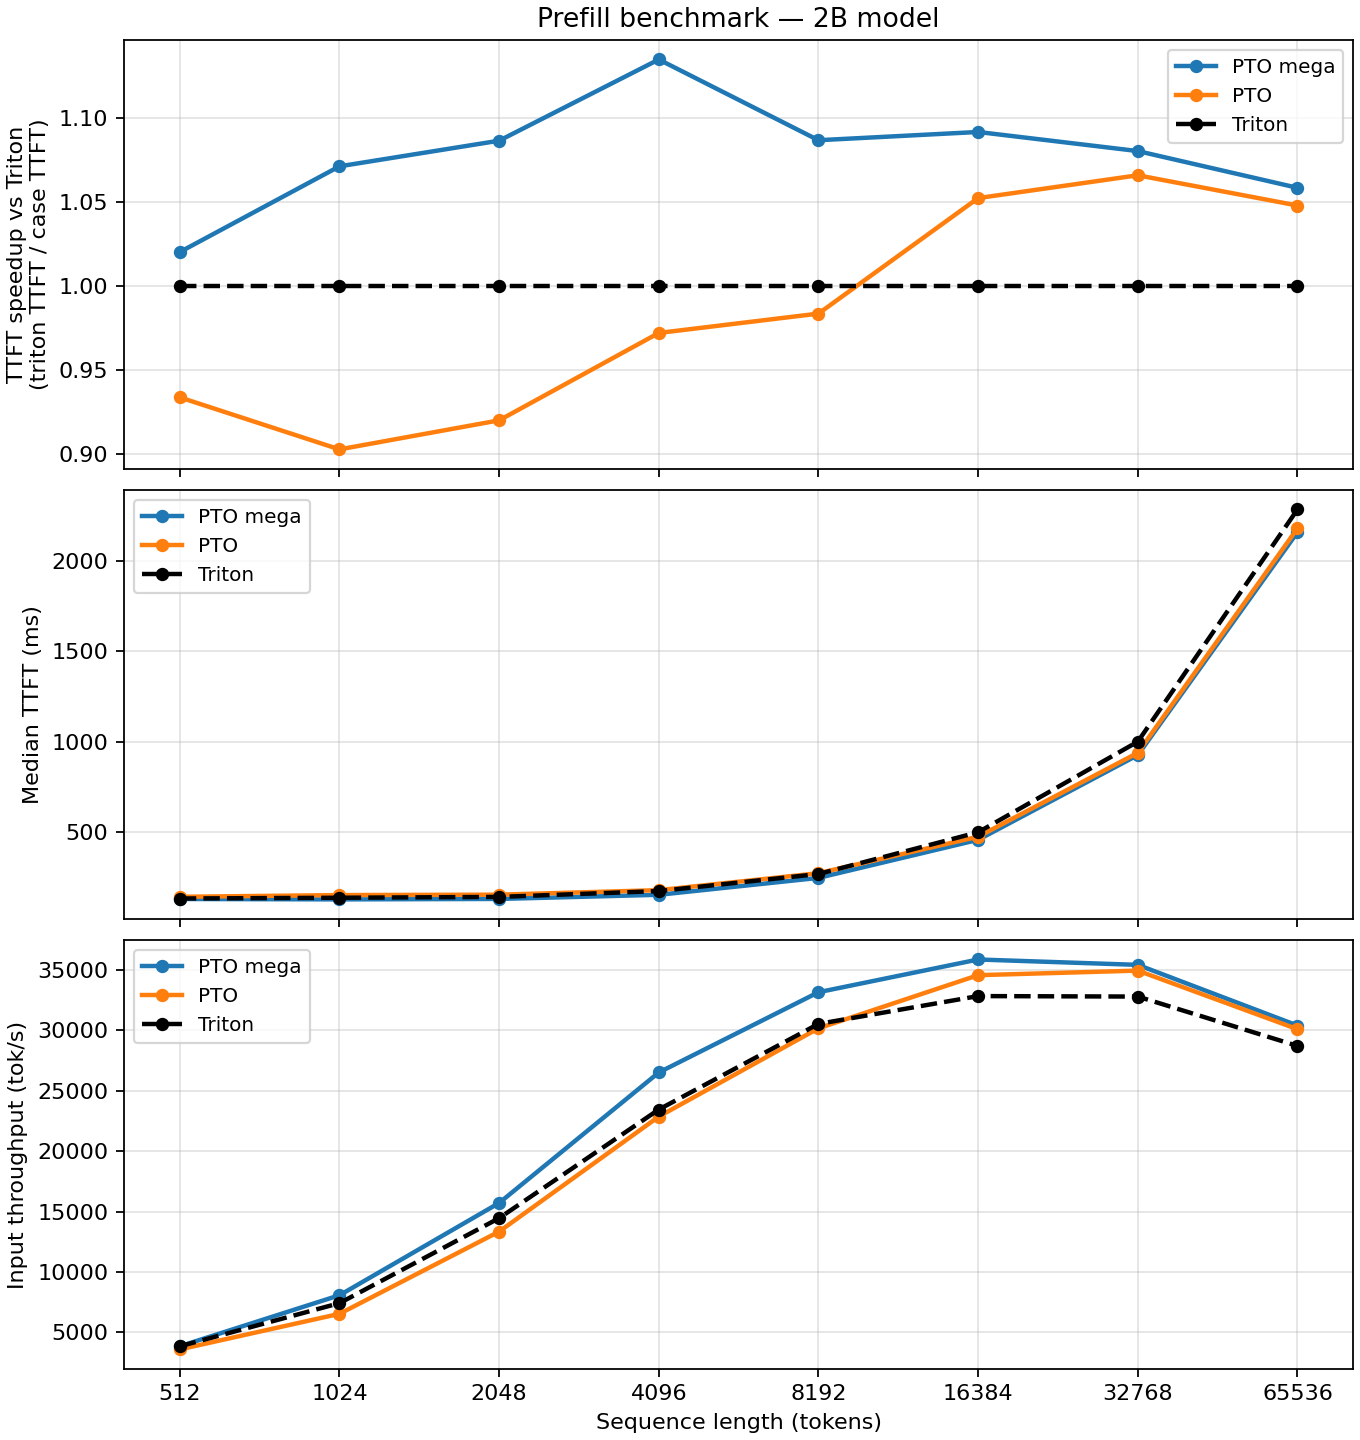
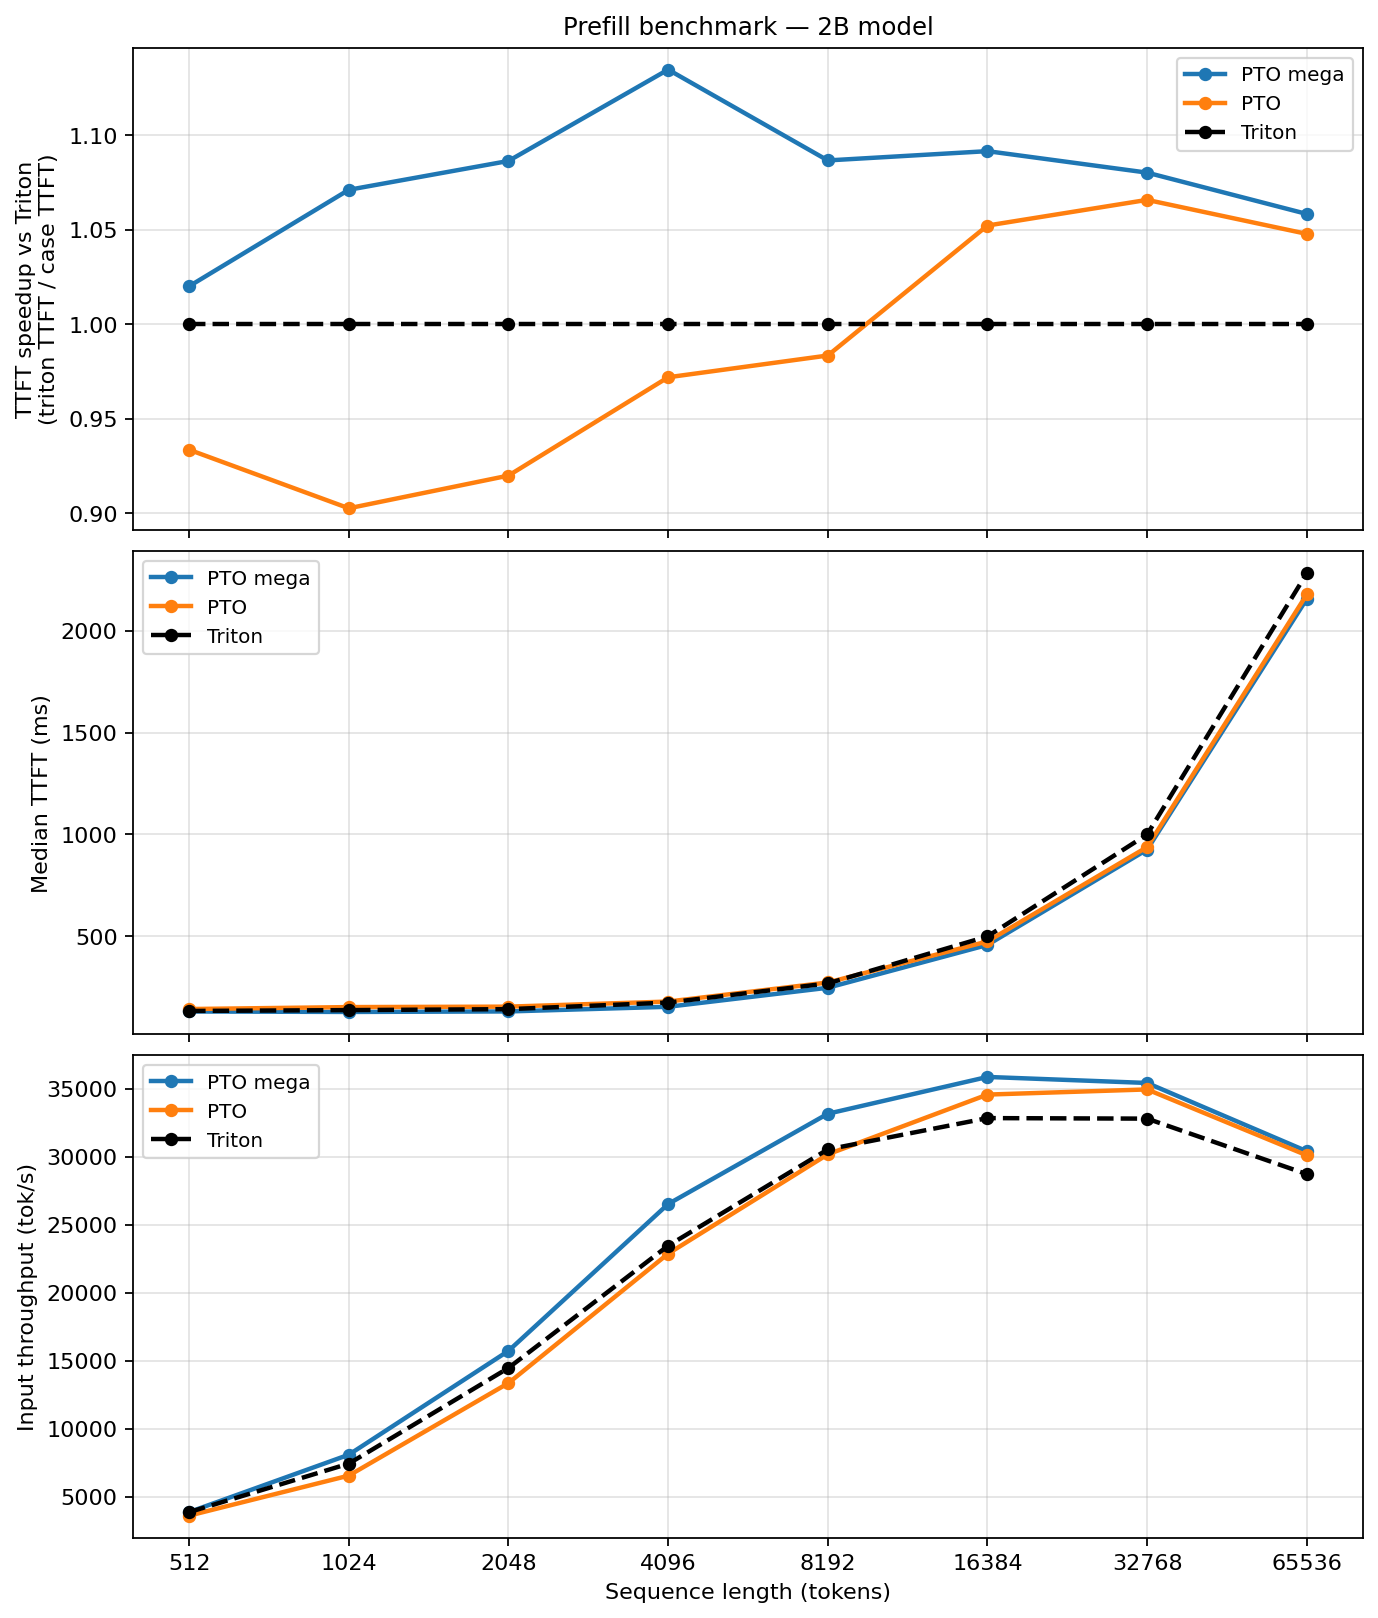
add PTO data points for seq 64K

diff --git a/patch_vllm_pto/plot_speedup.py b/patch_vllm_pto/plot_speedup.py
@@ -9,10 +9,8 @@ from pathlib import Path
 
 import matplotlib.pyplot as plt
 import numpy as np
-
 _ROOT = Path(__file__).resolve().parent
 
-# Plot order / legend: user-specified case → color
 CASE_STYLE = {
     "pto_mega": {"color": "#1f77b4", "label": "PTO mega"},
     "pto": {"color": "#ff7f0e", "label": "PTO"},
@@ -46,31 +44,31 @@ def _plot_model(model_dir: Path, model_name: str, out_path: Path) -> None:
         p = model_dir / f"{c}.jsonl"
         data[c] = _by_seq_len(_load_jsonl(p))
 
-    seq_lens = sorted(data["triton"].keys())
-    for c in cases:
-        if set(data[c].keys()) != set(seq_lens):
-            raise ValueError(
-                f"{model_dir.name}/{c}.jsonl seq_len set mismatch vs triton: "
-                f"{sorted(data[c].keys())} vs {seq_lens}"
-            )
+    baseline_k = sorted(data["triton"].keys())
+    union_k = sorted(set().union(*(set(data[c].keys()) for c in cases)))
+
+    seq_sp = baseline_k
 
     baseline = data["triton"]
-    speedup: dict[str, list[float]] = {c: [] for c in cases}
-    for sl in seq_lens:
+    speedup_k: dict[str, list[float]] = {c: [] for c in cases}
+    for sl in seq_sp:
         t0 = float(baseline[sl]["median_ttft_ms"])
         for c in cases:
+            if sl not in data[c]:
+                raise ValueError(f"{model_dir.name}/{c}.jsonl missing seq_len={sl} (need for speedup)")
             t = float(data[c][sl]["median_ttft_ms"])
-            speedup[c].append(t0 / t if t > 0 else float("nan"))
+            speedup_k[c].append(t0 / t if t > 0 else float("nan"))
 
-    fig, axes = plt.subplots(3, 1, figsize=(8.5, 9), sharex=True, constrained_layout=True)
+    fig, axes = plt.subplots(3, 1, figsize=(8.5, 10), sharex=True, constrained_layout=True)
     ax_sp, ax_ttft, ax_tps = axes
+
+    extra_after_triton = bool(baseline_k) and max(union_k) > max(baseline_k)
 
     for c in ("pto_mega", "pto", "triton"):
         sty = CASE_STYLE[c]
-        xs = np.array(seq_lens, dtype=float)
-        ttft = np.array([float(data[c][sl]["median_ttft_ms"]) for sl in seq_lens])
-        tps = np.array([float(data[c][sl]["input_tps"]) for sl in seq_lens])
-        sp = np.array(speedup[c])
+        xs_c = np.array(sorted(data[c].keys()), dtype=float)
+        ttft = np.array([float(data[c][int(sl)]["median_ttft_ms"]) for sl in xs_c])
+        tps_a = np.array([float(data[c][int(sl)]["input_tps"]) for sl in xs_c])
         line_kw = dict(
             marker="o",
             markersize=5,
@@ -79,26 +77,46 @@ def _plot_model(model_dir: Path, model_name: str, out_path: Path) -> None:
             color=sty["color"],
             linestyle=sty.get("linestyle", "-"),
         )
-        ax_sp.plot(xs, sp, **line_kw)
-        ax_ttft.plot(xs, ttft, **line_kw)
-        ax_tps.plot(xs, tps, **line_kw)
+        sp = np.array(speedup_k[c])
+        ax_sp.plot(np.array(seq_sp, dtype=float), sp, **line_kw)
+        ax_ttft.plot(xs_c, ttft, **line_kw)
+        ax_tps.plot(xs_c, tps_a, **line_kw)
+
+    if extra_after_triton and baseline_k:
+        lo = float(max(baseline_k))
+        hi = float(max(union_k))
+        for ax in (ax_ttft, ax_tps):
+            ax.axvspan(lo, hi, alpha=0.13, color="0.35", zorder=0)
 
     for ax in axes:
         ax.set_xscale("log", base=2)
-        ax.set_xticks(seq_lens)
+        xt = union_k
+        ax.set_xticks(xt)
         ax.get_xaxis().set_major_formatter(plt.FuncFormatter(lambda x, _: f"{int(x):d}"))
         ax.grid(True, which="major", alpha=0.35)
-        ax.legend(loc="best", fontsize=9)
+
+    ax_sp.legend(loc="best", fontsize=9)
+    ax_ttft.legend(loc="best", fontsize=9)
+    ax_tps.legend(loc="best", fontsize=9)
 
     ax_sp.set_ylabel("TTFT speedup vs Triton\n(triton TTFT / case TTFT)")
-    ax_sp.set_title(f"Prefill benchmark — {model_name} model")
+    main_title = f"Prefill benchmark — {model_name} model"
+    if extra_after_triton and baseline_k:
+        last_b = int(max(baseline_k))
+        last_u = int(max(union_k))
+        subtitle = (
+            f"(Triton baseline fails at seq_len={last_b})"
+        )
+        ax_sp.set_title(f"{main_title}\n{subtitle}", fontsize=10)
+    else:
+        ax_sp.set_title(main_title, fontsize=11)
 
     ax_ttft.set_ylabel("Median TTFT (ms)")
 
     ax_tps.set_ylabel("Input throughput (tok/s)")
     ax_tps.set_xlabel("Sequence length (tokens)")
 
-    fig.savefig(out_path, dpi=160)
+    fig.savefig(out_path, dpi=160, bbox_inches="tight")
     plt.close(fig)
 
 

diff --git a/patch_vllm_pto/README.md b/patch_vllm_pto/README.md
@@ -121,7 +121,7 @@ Use **`--quantization ascend`** on **`benchmark_prefill_latency.py`** and **`com
 | First-step full-vocab logprob vs **Triton** (`--max-logprobs 300000`) | `max_abs ≈ 6.99`, `rmse ≈ 1.31` — typical **`numpy.allclose`** default strict check **does not apply** vs BF16-only models; quantized matmul/stacking widens deltas while **the greedy path stays identical**. |
 | **PTO staged** vs **PTO mega** first-step logits | **Bit-identical** on this checkpoint (`max_abs` difference 0). |
 
-Benchmark JSONL (**`WARMUP=2`**, **`REPEATS=10`**): **`bench_prefill_Qwen36_27B_w8a8/27B-w8a8/`** (`triton` · `pto` · `pto_mega`). **`SEQ_LEN`** rung through **32768** on all three overlays; **`65536`** is **skipped** — Ascend **Triton** **`chunk_fwd_o` / chunk offsets** surfaced **`ACL stream synchronize … error 507014`** at that prompt length **here**, while staged/mega **PTO** kernels completed standalone runs (**keep JSONL grids aligned for `plot_speedup.py`**).
+Benchmark JSONL (**`WARMUP=2`**, **`REPEATS=10`**): **`bench_prefill_Qwen36_27B_w8a8/27B-w8a8/`**. Ascend **Triton** **`chunk_gated_delta_rule`** failed at **`SEQ_LEN=65536`** (**`ACL … 507014`**) on this workload, so **`triton.jsonl`** stops at **32768**; **`pto.jsonl`** / **`pto_mega.jsonl`** include an extra row at **65536**. **`figure/prefill_speedup_27B-w8a8.png`** (**`plot_speedup.py`**) plots **median TTFT** and **input TPS** for **PTO** / **PTO mega** through **65536**, shades the segment after the last Triton measurement, annotates it, and keeps **speedup vs Triton** only where the baseline exists (**`seq_len` ≤ longest Triton run**).
 
 | seq_len | Triton median TTFT (ms) | PTO median TTFT (ms) | PTO mega median TTFT (ms) |
 |--------:|-------------------------:|---------------------:|--------------------------:|
@@ -132,8 +132,9 @@ Benchmark JSONL (**`WARMUP=2`**, **`REPEATS=10`**): **`bench_prefill_Qwen36_27B_
 | 8192 | 1789.3 | 1653.8 | 1619.9 |
 | 16384 | 3389.6 | 3134.8 | 3095.8 |
 | 32768 | 7372.7 | 6890.2 | 6844.5 |
+| 65536 | — (baseline failed) | 16386.5 | 16269.9 |
 
-**Figure:** **`figure/prefill_speedup_27B-w8a8.png`**.
+**Figure:** **`figure/prefill_speedup_27B-w8a8.png`** (PTO timings at **65536** plotted; shaded region + plot subtitle explain missing Triton).
 
 ## Worker hook
 
